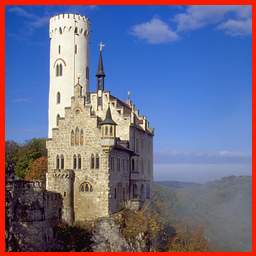
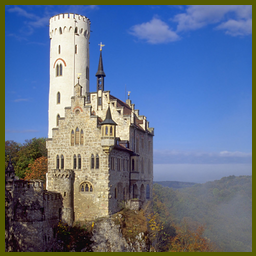
Color Mask implemented

Changed region(s): [[0.0, 0.0, 1.0, 1.0]]

diff --git a/src/argparse.h b/src/argparse.h
@@ -22,19 +22,21 @@ void help() {
     printf("-f: Color Filter\n");
     printf("--strength: Filter Strength (Required By: Color Filter)\n");
     printf("--opacity: Opacity\n");
-    printf("--color: Color [Hex Value] (Required By: Color Filter)n");
+    printf("--color: Color [Hex Value]\n");
     printf("-l: Add Image Layer\n");
     printf("--path: New Layer Image Path (Required By: Add Image Layer)\n");
     printf("--pos: Position Of The Image (Required By: Add Image Layer)\n");
     printf("--alpha-mask: Alpha Mask (Required By: Add Image Layer)\n");
     printf("--crop: Crop Image\n");
-    printf("--left: Crop From left (Optional: If not provided left value will be evaluated as 0))\n");
-    printf("--right: Crop From right (Optional: If not provided right value will be evaluated as 0))\n");
-    printf("--top: Crop From top (Optional: If not provided top value will be evaluated as 0))\n");
-    printf("--bottom: Crop From bottom (Optional: If not provided bottom value will be evaluated as 0))\n");
+    printf("--left: Pixels From left (Optional: If not provided left value will be evaluated as 0))\n");
+    printf("--right: Pixels From right (Optional: If not provided right value will be evaluated as 0))\n");
+    printf("--top: Pixels From top (Optional: If not provided top value will be evaluated as 0))\n");
+    printf("--bottom: Pixels From bottom (Optional: If not provided bottom value will be evaluated as 0))\n");
     printf("--rotate: Rotate Image\n");
     printf("--invert: Invert Image\n");
     printf("--border: Add Borders\n");
+    printf("--mask: Mask Color\n");
+    printf("--threshold: Threshold\n");
     printf("\n");
     printf("-------------------------------------------\n\n");
 
@@ -199,6 +201,14 @@ void parse_args(int argc, char *argv[])
         output = add_border(image, color, border_size);
     }
 
+    char* mask_opt = find_argument("--mask", false);
+    if (mask_opt)
+    {
+        char* color = find_argument("--color", true);
+        float threshold = (float) atof(find_argument("--threshold", true));
+        output = mask(image, color, threshold);
+
+    }
 
     OUTPUT_PATH = find_argument("-o", true);
     write_png_file(OUTPUT_PATH, output);

diff --git a/src/editor.h b/src/editor.h
@@ -484,3 +484,45 @@ Image add_border(Image image, char* color, int size)
 
     return image;
 }
+
+
+Image mask(Image image, char* color, float threshold)
+{
+    int r, g, b;
+
+    char* hex_code = color;
+
+    hex_to_rgb(hex_code, &r, &g, &b);
+
+
+
+    int r_min = (int) (r * threshold);
+    int g_min = (int) (g * threshold);
+    int b_min = (int) (b * threshold);
+
+    int r_max = (int)(r + (255 - r) * (1 - threshold));
+    int g_max = (int)(g + (255 - g) * (1 - threshold));
+    int b_max = (int)(b + (255 - b) * (1 - threshold));
+
+
+    for(int y = 0; y < image.height; y++)
+    {
+        png_bytep row = image.pixels[y];
+
+        for(int x = 0; x < image.width; x++)
+        {
+            png_bytep px = &(row[x * 4]);
+
+            if( px[0] >= r_min && px[0] <= r_max &&
+                px[1] >= g_min && px[1] <= g_max &&
+                px[2] >= b_min && px[2] <= b_max
+            )
+            {
+
+                px[3] = 0;
+            }
+
+        }
+    }
+    return image;
+}

diff --git a/README.md b/README.md
@@ -242,6 +242,25 @@ $ ./image-edit -i examples/castle.png --border 5 --color "#f51a00" -o examples/c
 
 ![](https://github.com/alperakkin/image-editor/blob/main/examples/castle-border.png)
 
+
+### Mask Color
+To apply a color mask , add the following parameters.
+
+
+```bash
+$ ./image-edit -i examples/castle.png  --mask --color "#6a7175"  --threshold 0.65 --mask --color "#255bbb" --threshold 0.35 -o examples/castle-mask.png
+```
+
+The above command applies two masks to the image. The first mask removes the color #6a7175 from the image with a 65% threshold. The second mask removes the color #255bbb with a 35% threshold.
+
+
+#### Input
+![](https://github.com/alperakkin/image-editor/blob/main/examples/castle.png)
+
+#### Output
+
+![](https://github.com/alperakkin/image-editor/blob/main/examples/castle-mask.png)
+
 ## PARAMETERS
 
 -i: Input Image Path
